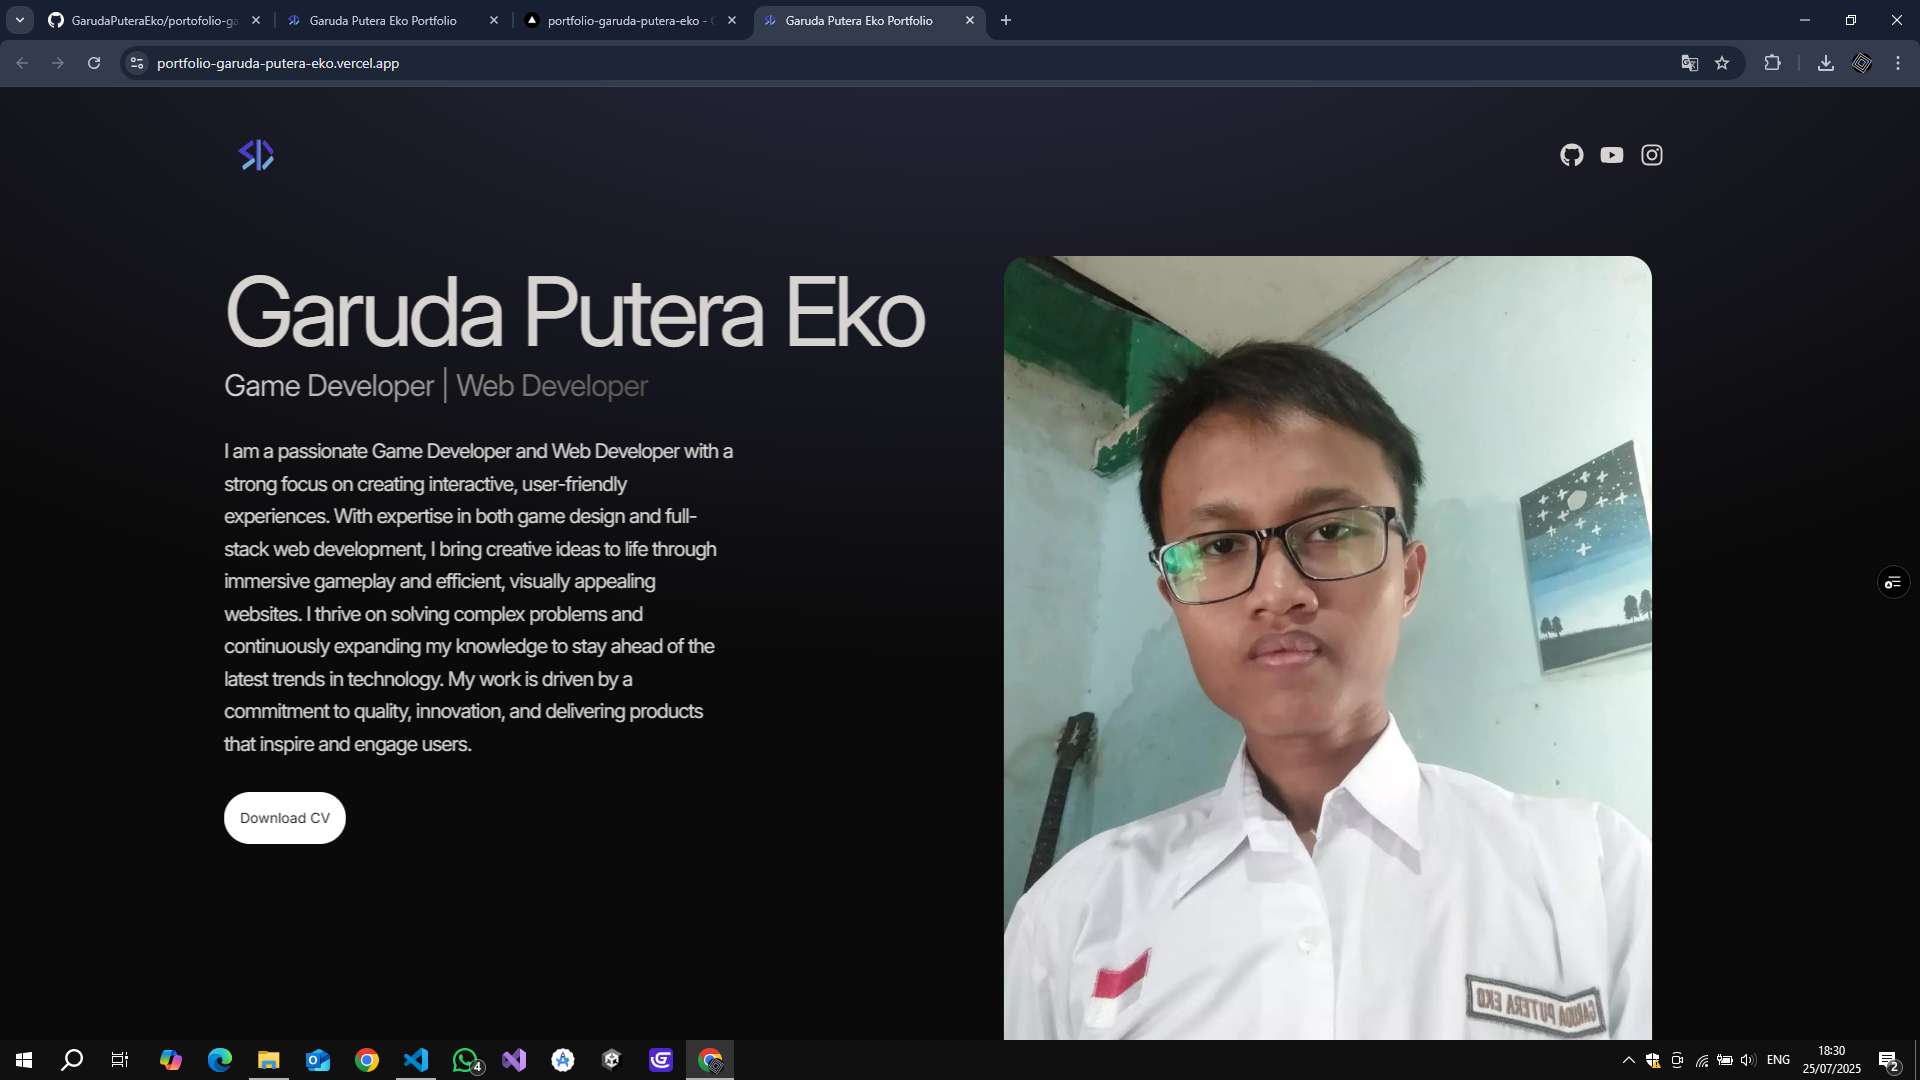
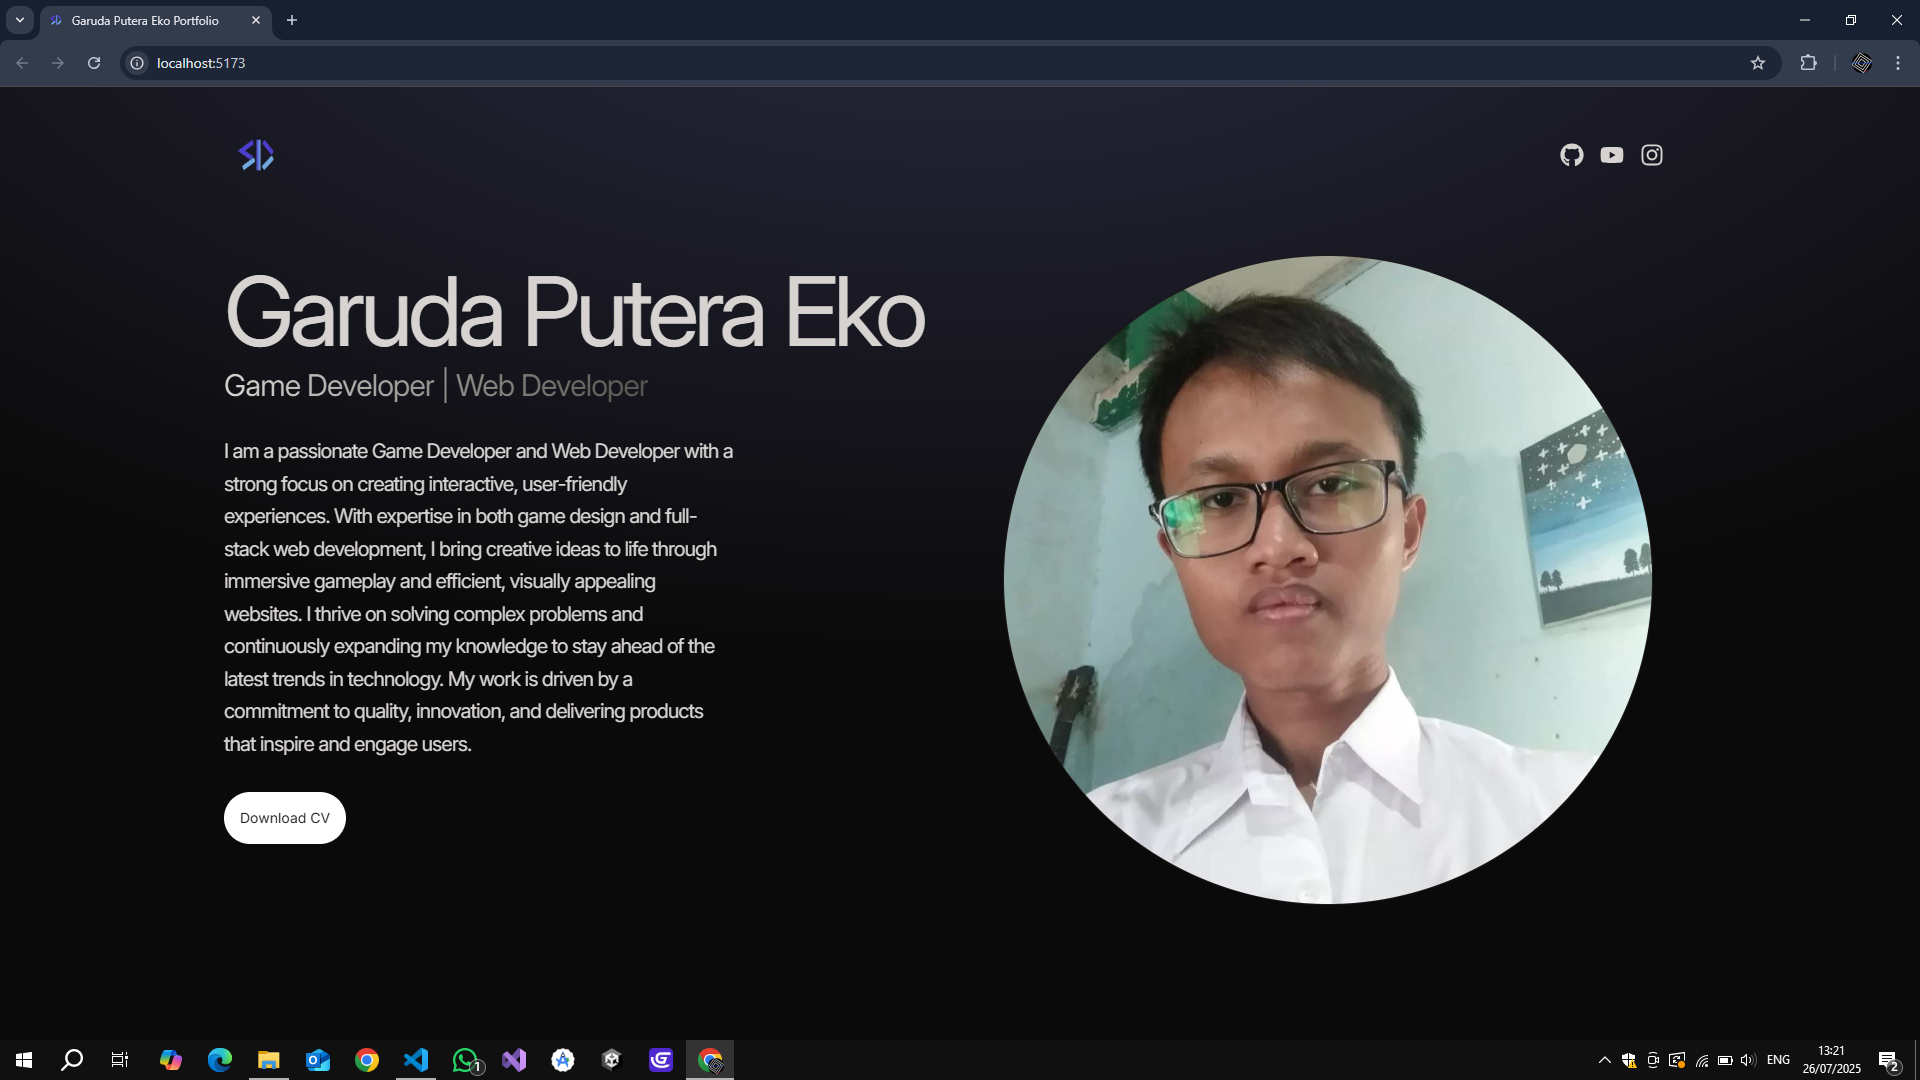
change layout

diff --git a/src/components/Technologies.jsx b/src/components/Technologies.jsx
@@ -6,6 +6,7 @@ import { IoLogoJavascript } from "react-icons/io5";
 import { FaJava } from "react-icons/fa";
 import { SiXampp } from "react-icons/si";
 import gdeveloplogo from '../assets/gdev.jpeg';
+import { TbBrandNextjs } from "react-icons/tb";
 
 const iconVariants = (duration) => ({
     initial: { y: -10},
@@ -68,6 +69,13 @@ const Technologies = () => {
                 variants={iconVariants(6)}
                 className="p-4">
                 <FaLaravel className="text-7xl text-red-600"/>
+            </motion.div>
+            <motion.div 
+                initial="initial"
+                animate="animate"
+                variants={iconVariants(2.5)}
+                className="p-4">
+                <TbBrandNextjs className="text-7xl text-white-400"/>
             </motion.div>
             <motion.div 
                 initial="initial"

diff --git a/src/constants/index.js b/src/constants/index.js
@@ -10,18 +10,18 @@ export const ABOUT_TEXT = `I am a dedicated and versatile full stack developer w
 
 export const EXPERIENCES = [
   {
-    year: "2020 - Present",
-    role: "Youtuber",
-    company: "Google Inc.",
-    description: `Create Video Game content for many people.`,
-    technologies: ["XRecorder", "Capcut", "Pixelab"],
-  },
-  {
     year: "2023 - Present",
     role: "Software Engineering Student",
     company: "SMKN 21 Jakarta",
     description: `Learn anything about software engineer.`,
     technologies: ["XAMPP", "Laravel", "Java", "GDevelop", "NextJs"],
+  },
+  {
+    year: "2020 - Present",
+    role: "Youtuber",
+    company: "Google Inc.",
+    description: `Create Video Game content for many people.`,
+    technologies: ["XRecorder", "Capcut", "Pixelab"],
   },
 ];
 

diff --git a/src/components/Hero.jsx b/src/components/Hero.jsx
@@ -27,7 +27,7 @@ const Hero = () => {
                     <motion.img 
                       src={profilePic} 
                       alt="Garuda" 
-                      className="border border-stone-900 rounded-3xl"
+                      className="border border-stone-900 rounded-full"
                       width={650}
                       height={650}
                       initial={{ x: 100, opacity: 0 }}
